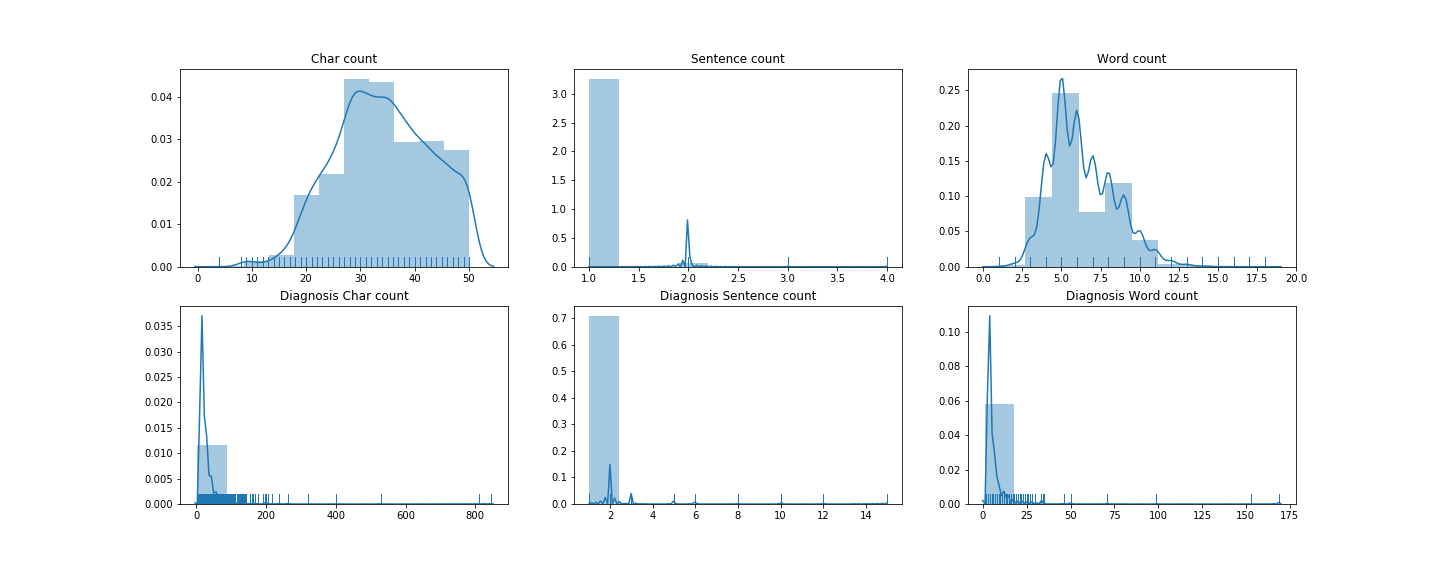
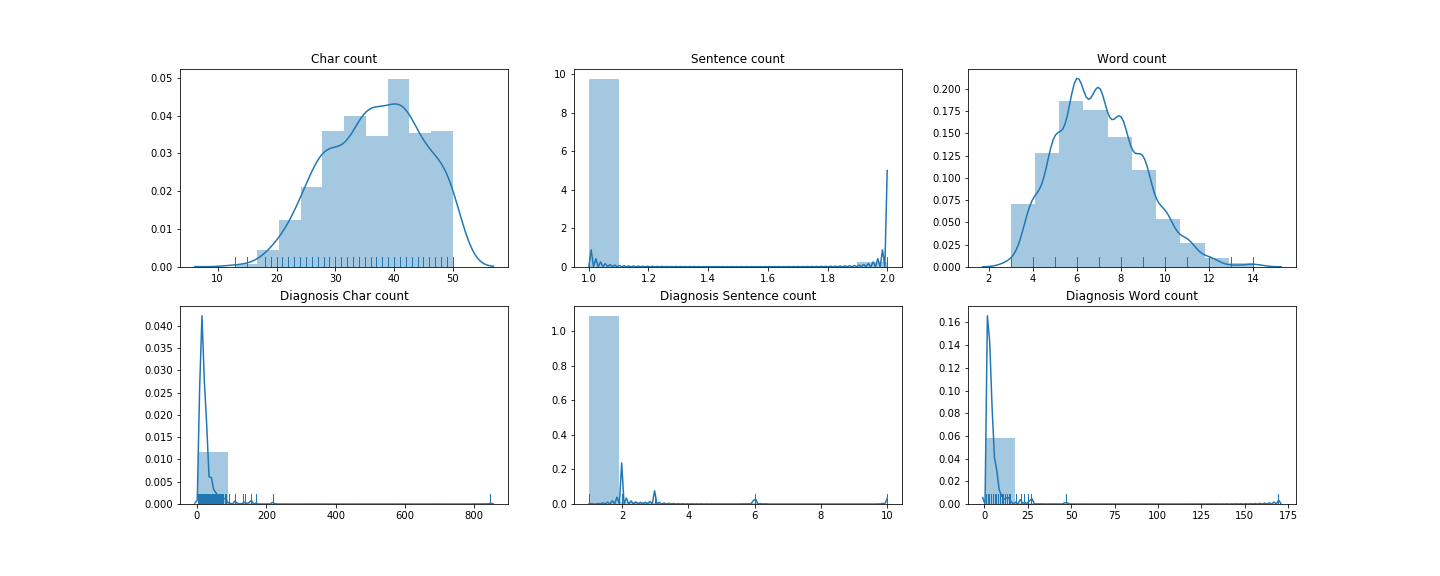
corrected image reference in readme

diff --git a/.ipynb_checkpoints/README-checkpoint.md b/.ipynb_checkpoints/README-checkpoint.md
@@ -20,7 +20,7 @@ The goal is to build a binary classifier to predict the “PreventiveFlag” lab
 Class 0 stats: 
 ![**Figure 2. **](graphics/class0_stats.png)
 Class 1 stats: 
-![**Figure 3. **](graphics/class0_stats.png)
+![**Figure 3. **](graphics/class1_stats.png)
 
 ### Text Analysis
 

diff --git a/README.md b/README.md
@@ -20,7 +20,7 @@ The goal is to build a binary classifier to predict the “PreventiveFlag” lab
 Class 0 stats: 
 ![**Figure 2. **](graphics/class0_stats.png)
 Class 1 stats: 
-![**Figure 3. **](graphics/class0_stats.png)
+![**Figure 3. **](graphics/class1_stats.png)
 
 ### Text Analysis
 
